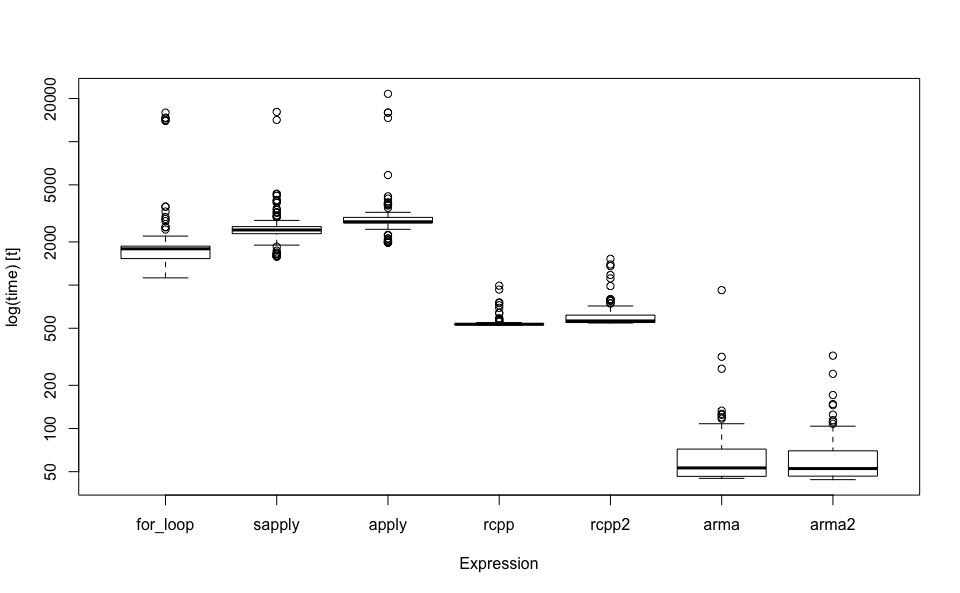
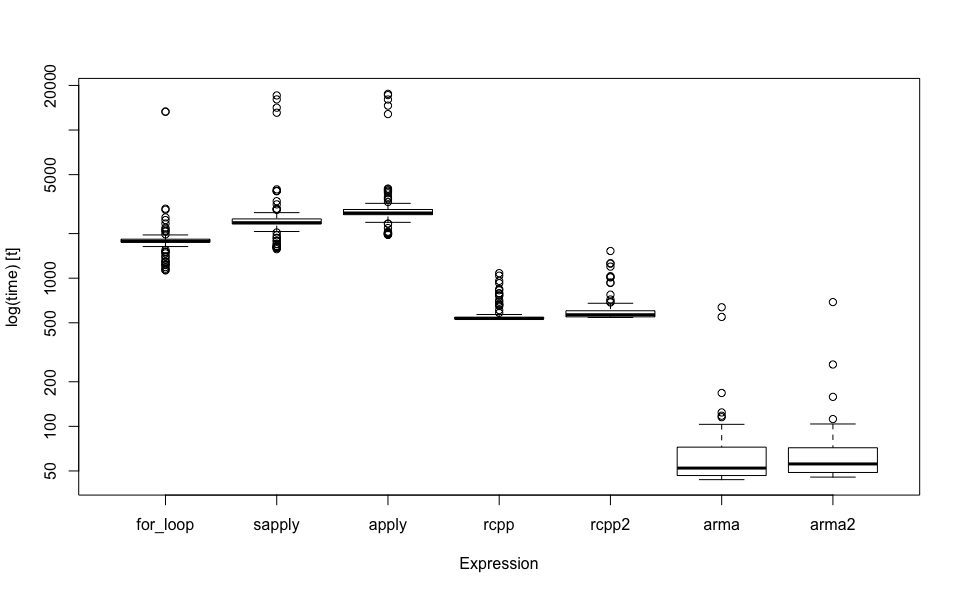
added Travis build status badge

diff --git a/README.md b/README.md
@@ -4,6 +4,9 @@
 
 # colprods
 
+![Travis build
+status](https://travis-ci.org/dkidney/colprods.svg?branch=master)
+
 The goal of colprods is to provide a simple example of how to
 incorporate Rcpp and RcppArmadillo functions into a package. It does
 this using various implementations of a function to calculate the column
@@ -93,13 +96,13 @@ x = matrix(rnorm(nr * nc), nr, nc)
 bench_tall = x %>% bench
 bench_tall %>% print_bench
 #>      expr mean median mean_rel median_rel neval
-#>  for_loop  981    515     18.5       10.6   100
-#>    sapply 1034    600     19.5       12.4   100
-#>     apply 1430   1126     27.0       23.3   100
-#>      rcpp  538    519     10.1       10.7   100
-#>     rcpp2  585    550     11.0       11.4   100
-#>      arma   53     48      1.0        1.0   100
-#>     arma2   61     50      1.2        1.0   100
+#>  for_loop  858    525     15.1       10.5   100
+#>    sapply  928    607     16.3       12.2   100
+#>     apply 1626   1142     28.7       22.9   100
+#>      rcpp  540    520      9.5       10.4   100
+#>     rcpp2  597    551     10.5       11.0   100
+#>      arma   59     50      1.0        1.0   100
+#>     arma2   57     51      1.0        1.0   100
 bench_tall %>% boxplot(log = TRUE)
 ```
 
@@ -114,13 +117,13 @@ x = matrix(rnorm(nr * nc), nr, nc)
 bench_wide = x %>% bench
 bench_wide %>% print_bench
 #>      expr mean median mean_rel median_rel neval
-#>  for_loop 2412   1790     36.1       34.1   100
-#>    sapply 2711   2423     40.6       46.1   100
-#>     apply 3390   2763     50.7       52.6   100
-#>      rcpp  553    533      8.3       10.1   100
-#>     rcpp2  631    562      9.4       10.7   100
-#>      arma   75     53      1.1        1.0   100
-#>     arma2   67     53      1.0        1.0   100
+#>  for_loop 1994   1775     28.5       34.0   100
+#>    sapply 2885   2370     41.2       45.3   100
+#>     apply 3405   2754     48.7       52.7   100
+#>      rcpp  578    534      8.3       10.2   100
+#>     rcpp2  626    567      9.0       10.8   100
+#>      arma   73     52      1.0        1.0   100
+#>     arma2   70     56      1.0        1.1   100
 bench_wide %>% boxplot(log = TRUE)
 ```
 
